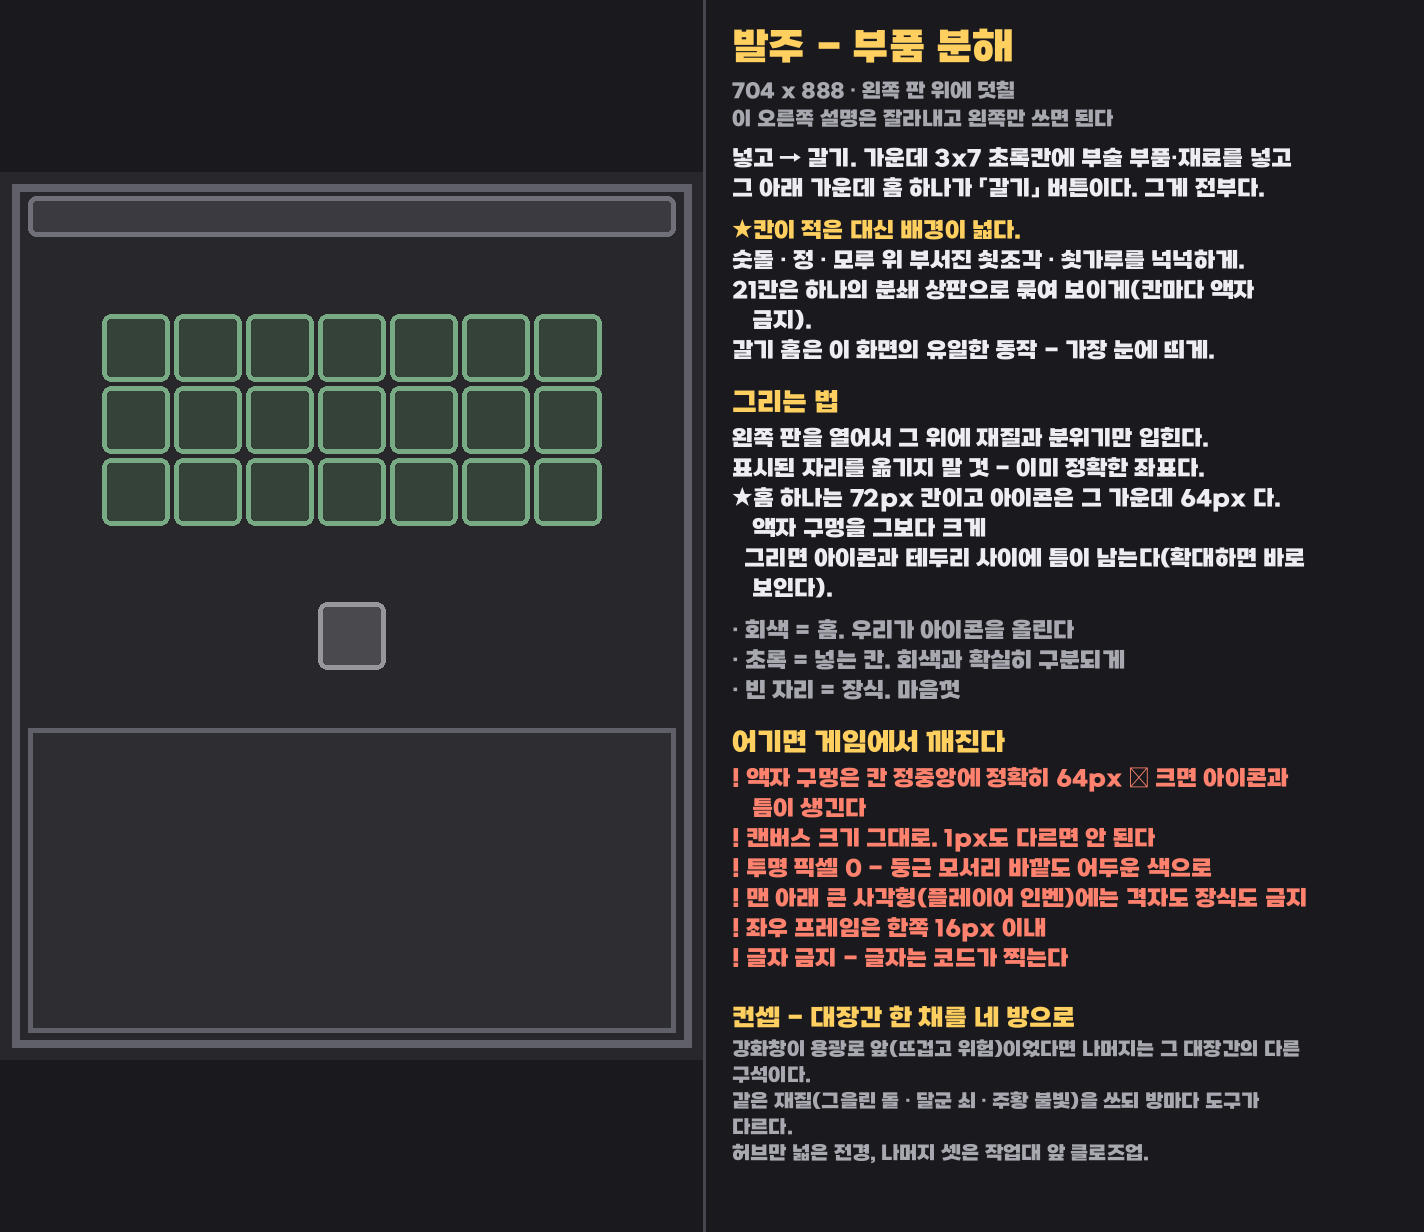
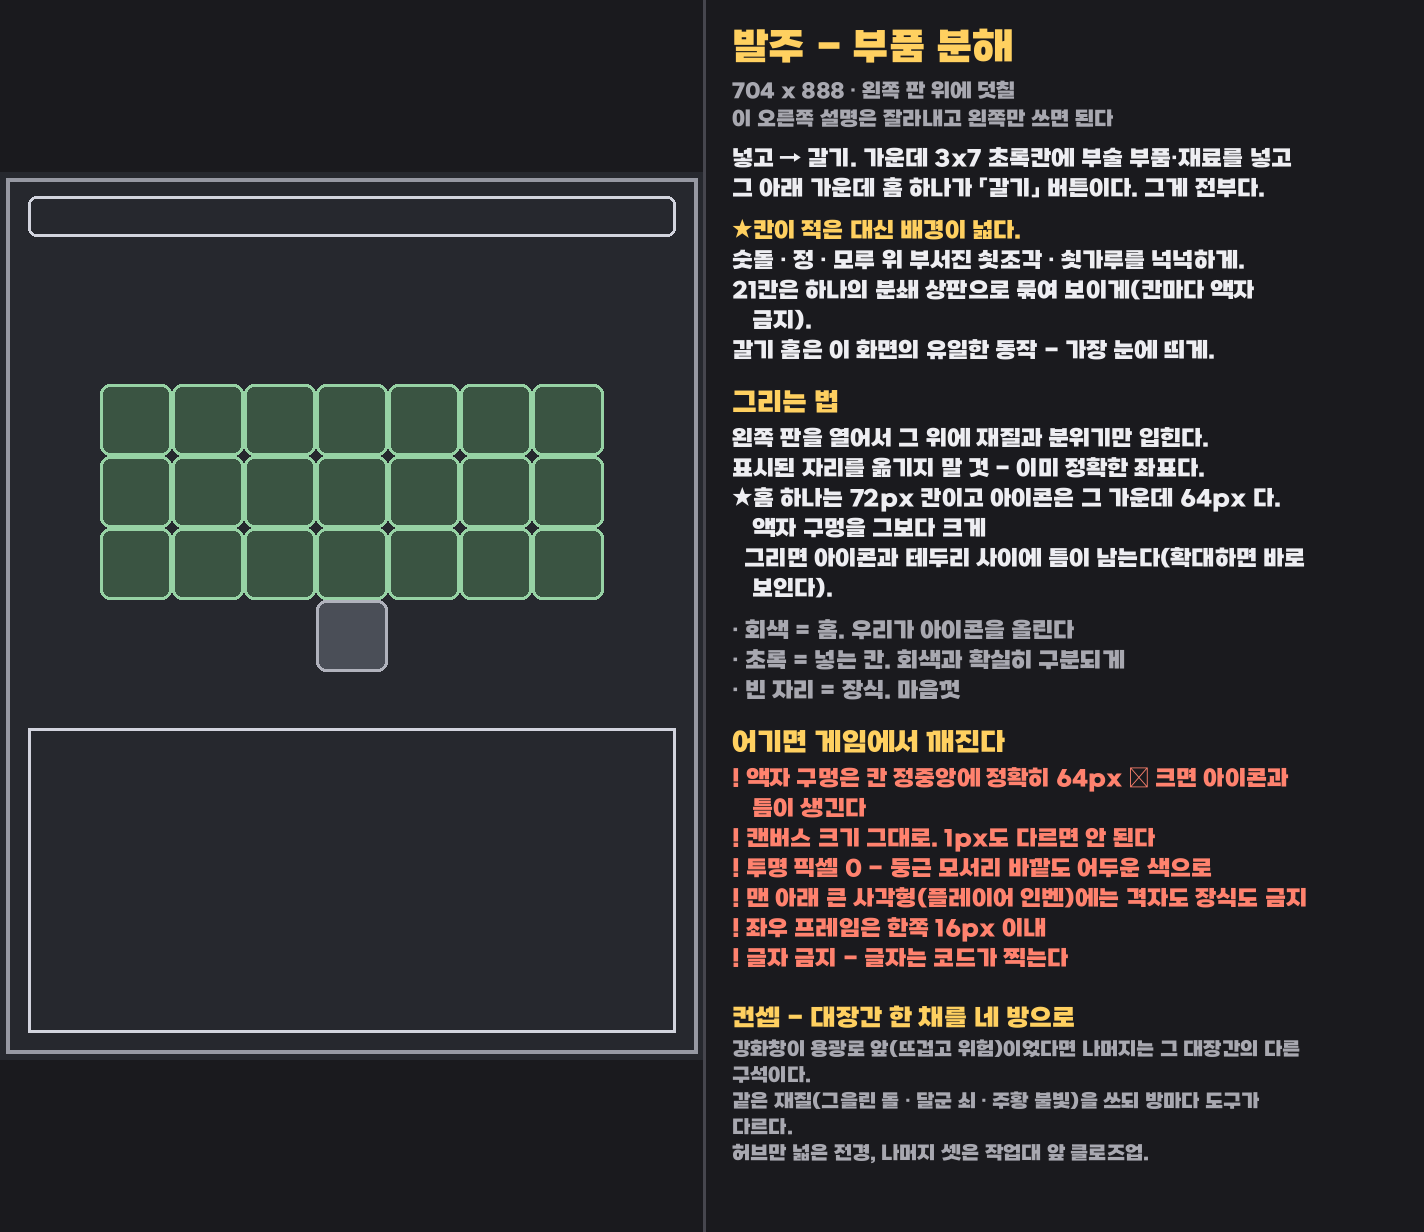
분해창은 손질 포기하고 재발주 — 오려 옮긴 티가 크게 남았다
「갈기」 버튼을 24px 올린 건 이어붙인 자리가 눈에 띄어 유저가 반려했다. 초록판도
세로 간격이 69.3px(72여야 함)이고 위로 4~12px 밀려 있어(아래로 갈수록 심함) 픽셀
보정으로는 못 맞춘다 — 오려 붙이는 방식의 한계다. prep_delivery 에서 분해창 손질을
전부 뺀다.

재생성용 _redlines.png 를 남긴다: 납품 원본 위에 빨강(아이콘 64px)·파랑(칸 72px)을
겹치고 실측 어긋남과 맞춰야 할 판 좌표를 그림 안에 적어 넣었다.

Changed region(s): [[0.0, 0.1234, 0.4944, 0.8636], [0.0618, 0.2468, 0.4326, 0.5552]]

diff --git a/gui-forge/prep_delivery.py b/gui-forge/prep_delivery.py
@@ -60,11 +60,9 @@ SPINE_FILL = {"dexfish": ((3, 2), 4, [0, 1, 2, 3, 4])}
 #   (2026-08-10 유저가 확대해서 잡아냄 — 겹쳐보기 그림으로는 안 보였다.)
 SHIFTS = {   # (상자, dx, dy[, 메움 바닥을 뜰 절대 y])
     "npcdialog": [((160, 272, 546, 368), 0, -2)],   # 선택지 놋쇠 판이 2px 낮았다
-    # 「갈기」 버튼이 셀49 중심보다 **24px** 아래였다(아이콘 위쪽 1/3 이 맨 바닥에 걸쳐 있었다).
-    # ★상자 위끝은 450 — 초록 입력판 아래 테두리가 449 에서 끝나므로 1px 아래부터 잡는다.
-    #   412 부터 잡았다가 그 테두리를 끌어올려 판 밑에 검은 홈을 파먹은 적이 있다.
-    # ★메움은 버튼 **위쪽** 민무늬 바닥(y424~)에서 뜬다 — 아래쪽엔 밝은 이음선이 지나가 티가 난다.
-    "disassemble": [((300, 450, 404, 542), 0, -24, 424)],
+    # ★분해창은 손질하지 않는다 — 「갈기」 버튼을 오려 24px 올렸더니 이어붙인 티가 크게 났다
+    #   (2026-08-11 유저 확인). 초록판 격자도 세로 간격이 69.3px(72여야 함)라 픽셀로 못 맞춘다.
+    #   그림을 다시 받는다.
 }
 
 # 구멍 조이기: 액자 구멍이 아이콘(64px)보다 크면 그 틈만큼 액자 안쪽 테두리를 밀어 넣는다.
